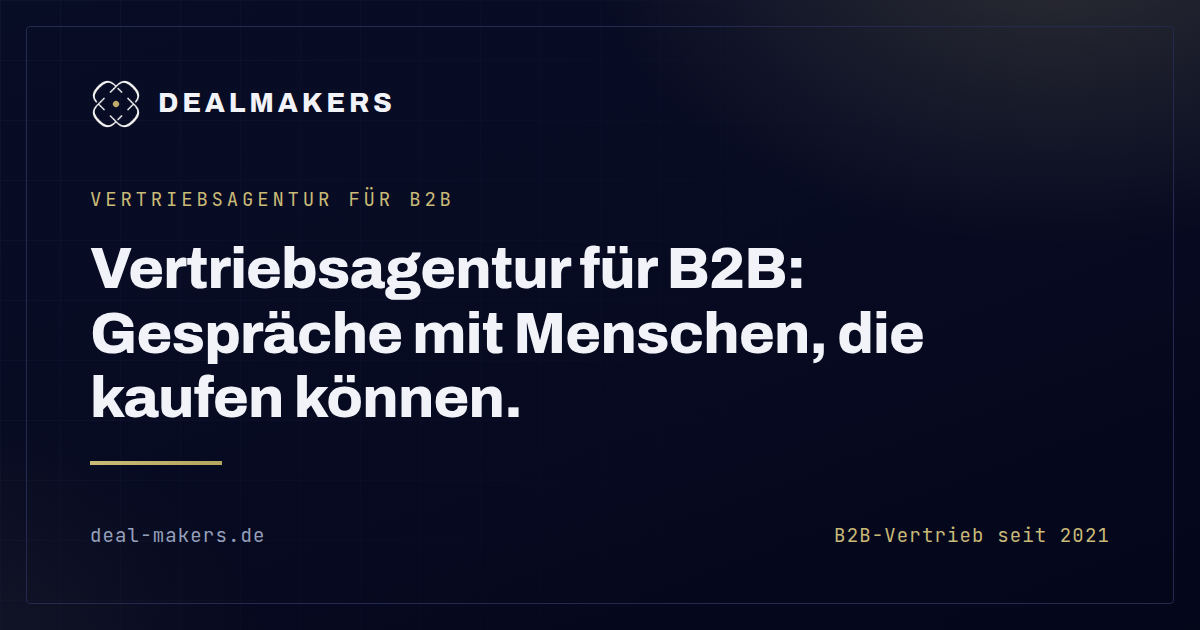
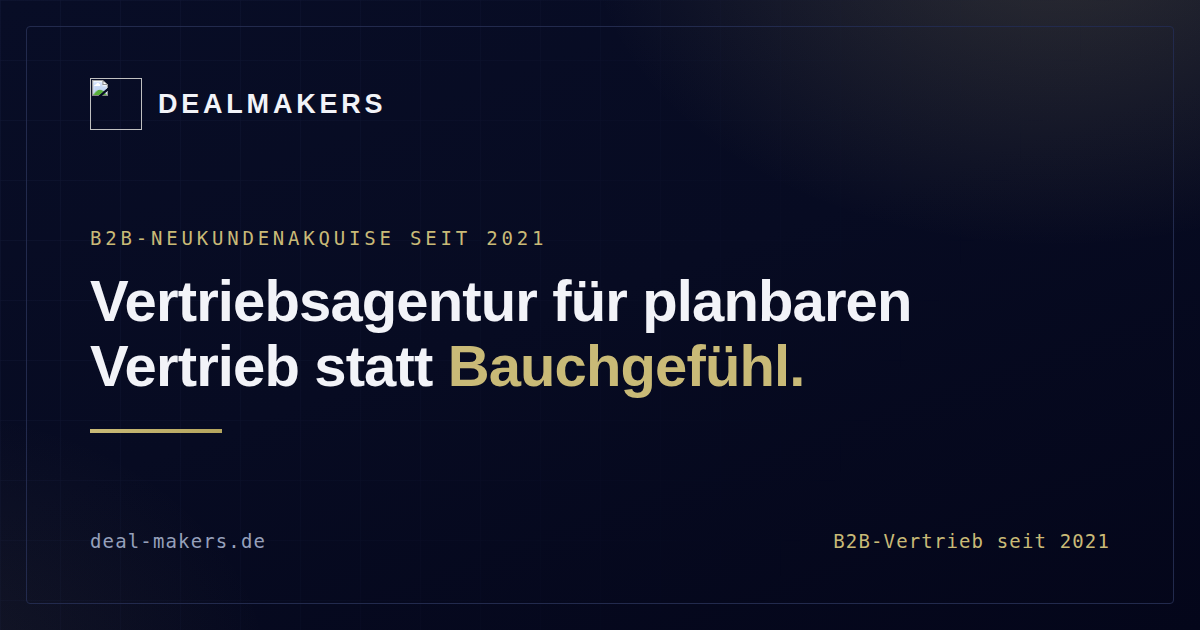
Neue Startseiten-Ueberschrift mit wechselndem Goldwort

diff --git a/index.html b/index.html
@@ -16,7 +16,7 @@
 <meta property="og:image" content="https://deal-makers.de/assets/og-startseite.png">
   <meta property="og:image:width" content="1200">
   <meta property="og:image:height" content="630">
-  <meta property="og:image:alt" content="Vertriebsagentur für B2B">
+  <meta property="og:image:alt" content="Vertriebsagentur für planbaren Vertrieb statt Bauchgefühl">
 <meta name="twitter:card" content="summary_large_image">
 <link rel="stylesheet" href="/assets/styles.css">
 <link rel="stylesheet" href="/assets/dm-effects.css">
